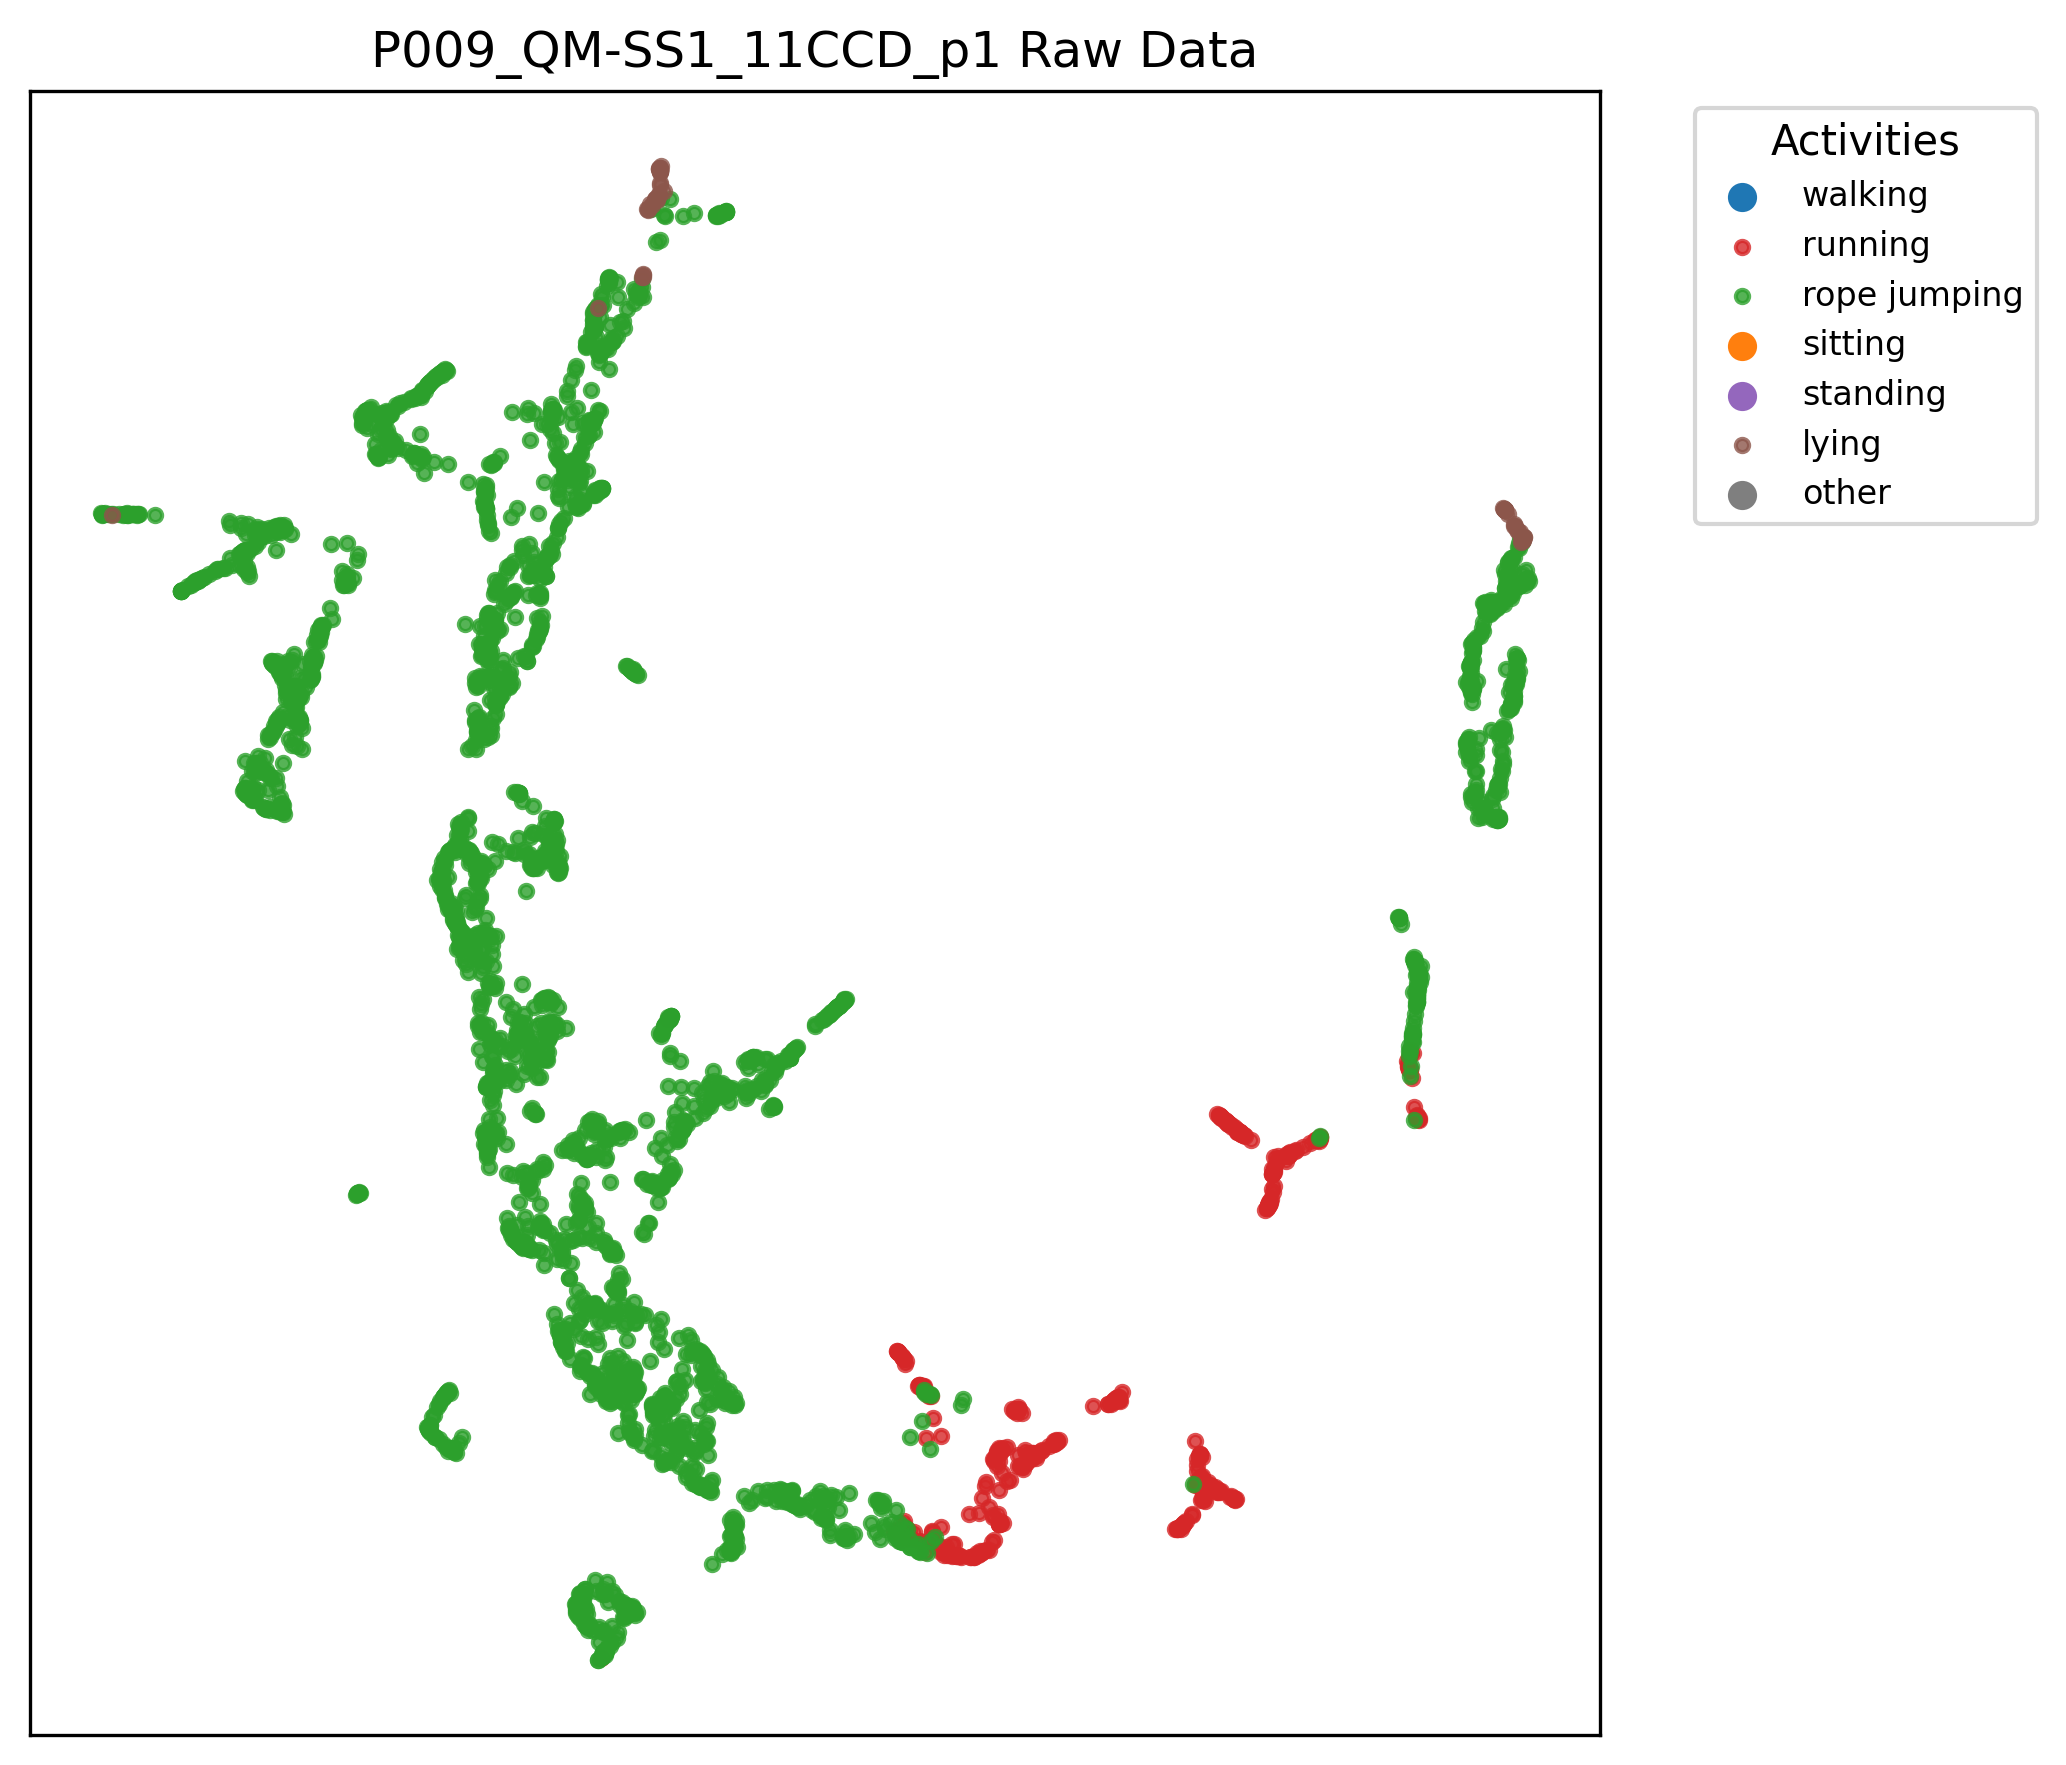
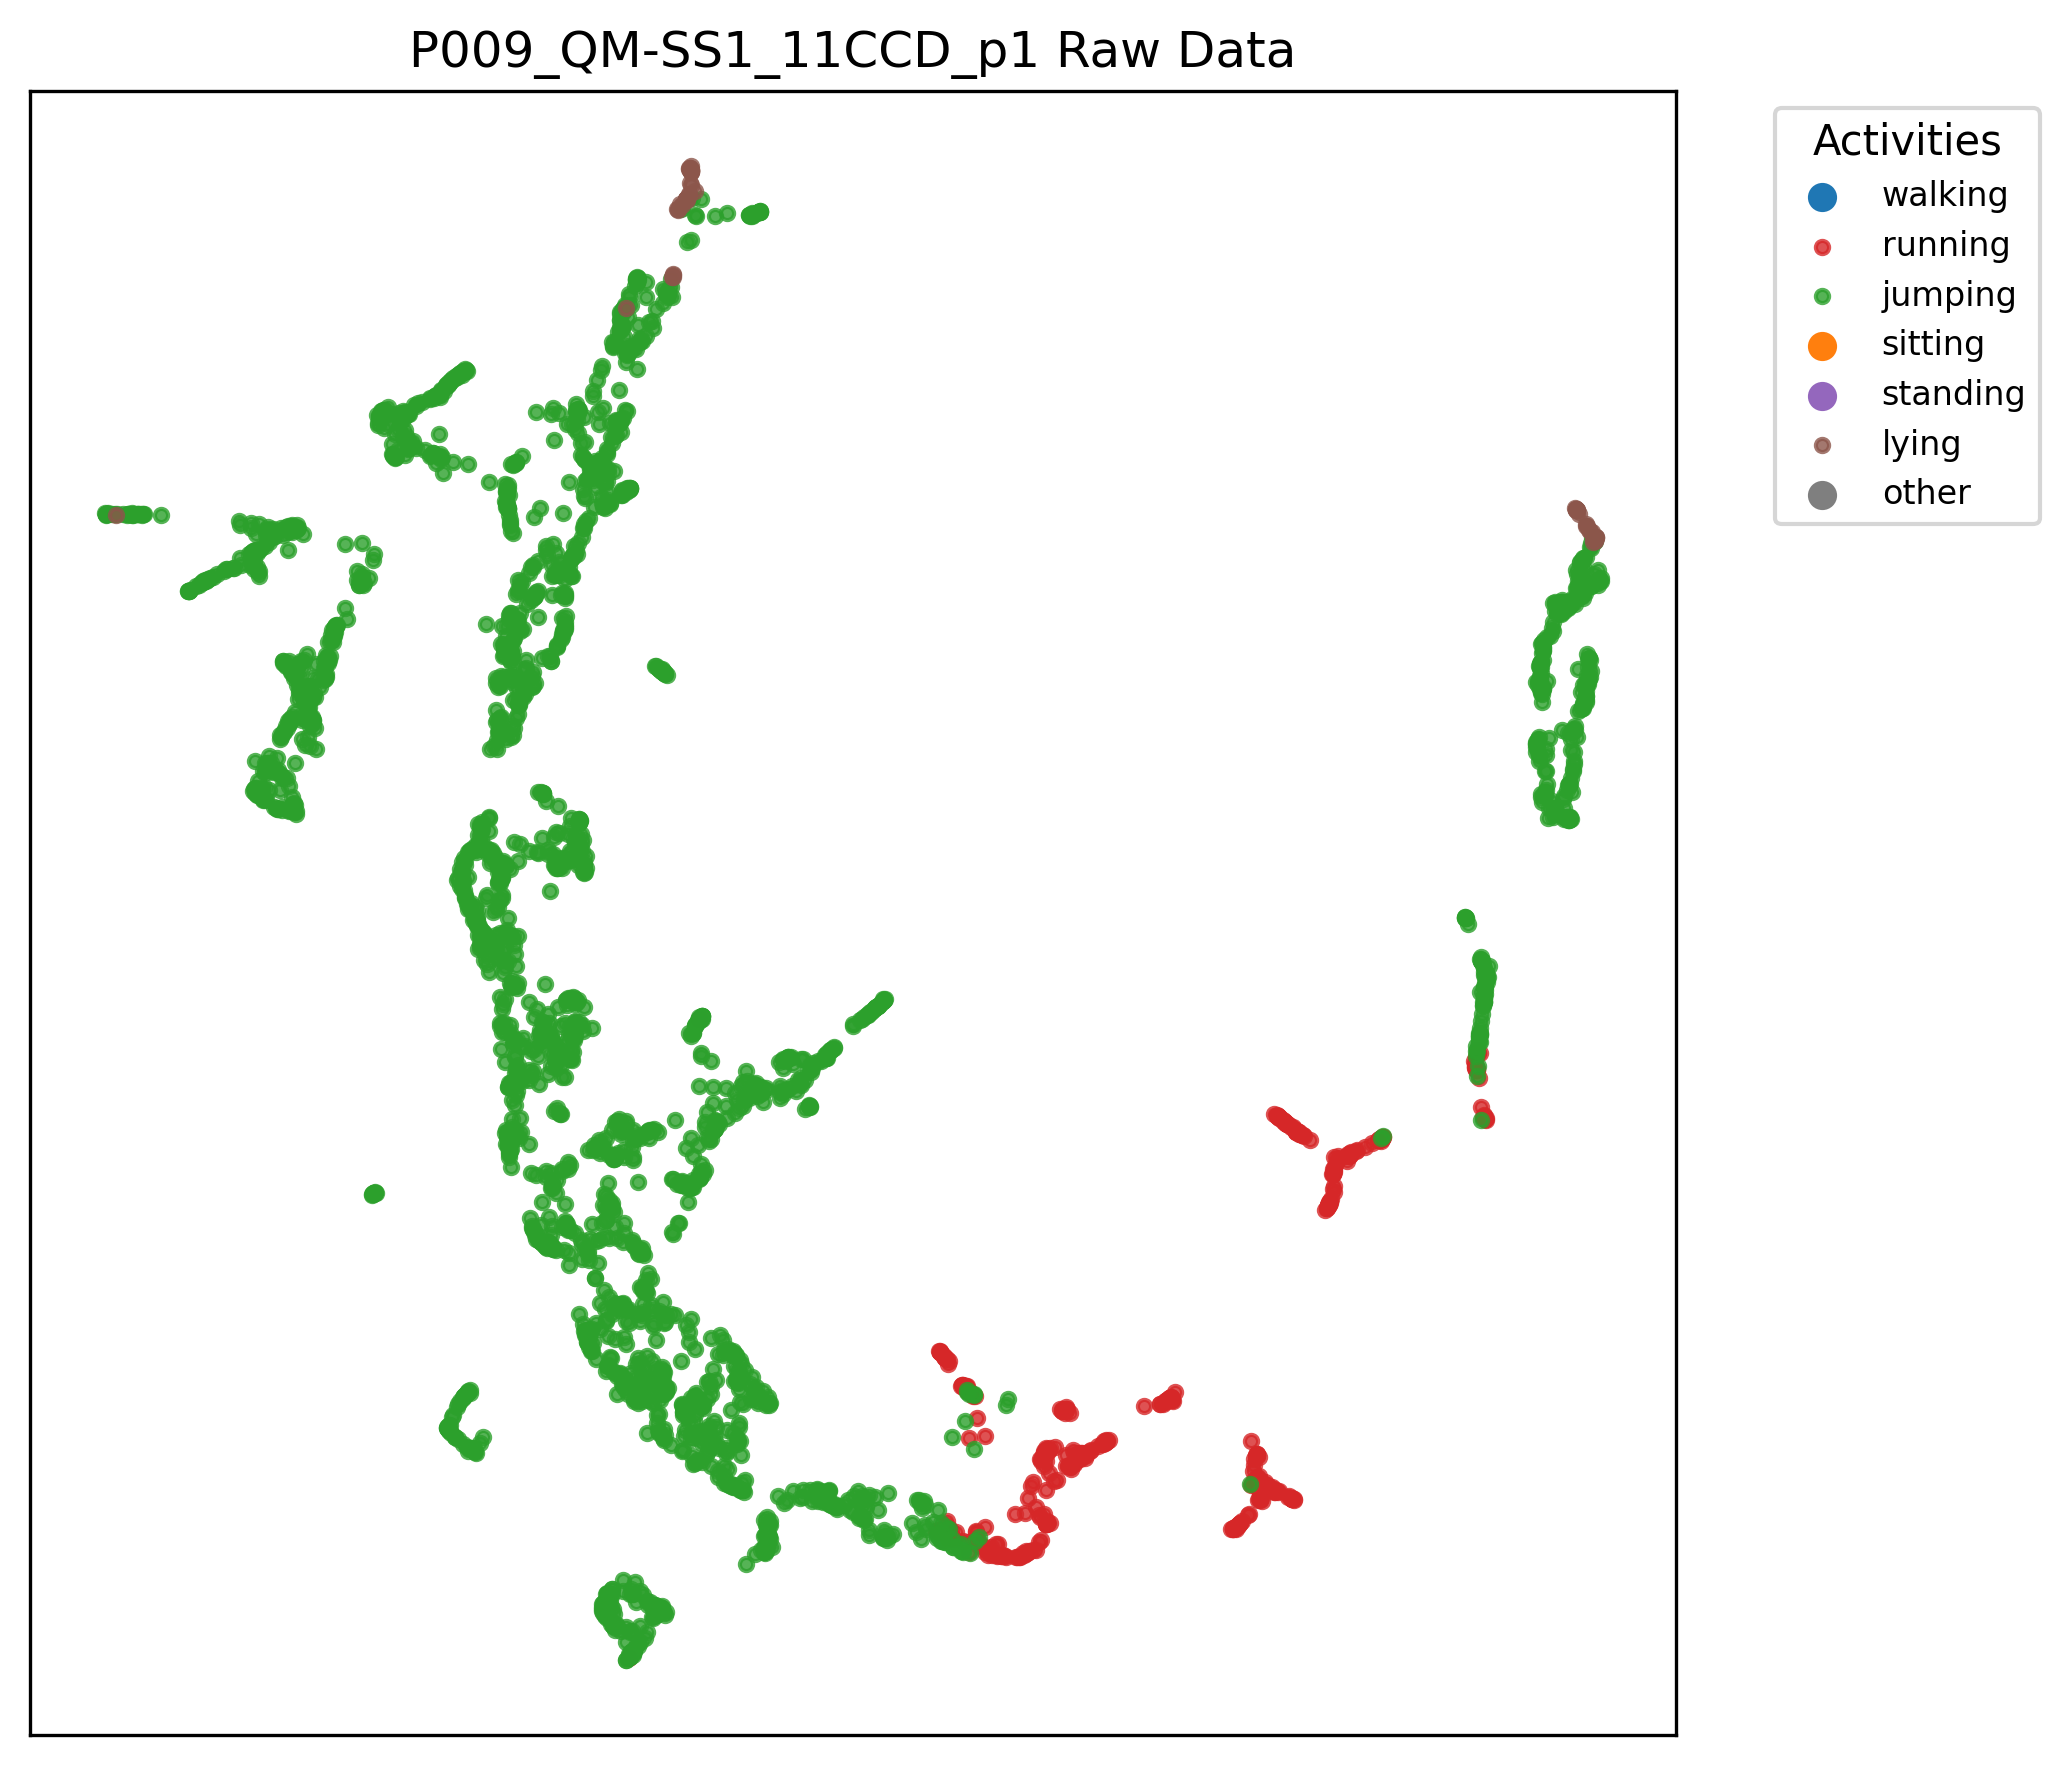
Adding updated images for wisdm confusion matrix, and children UMAPs

diff --git a/children_visualizations.py b/children_visualizations.py
@@ -37,13 +37,13 @@ pamap2_to_children = {
     12: 6,
     13: 6,
     14: 6,
-    18: 2   # rope jumping
+    18: 2  
 }
 
 children_map = {
     0: "walking",
     1: "running",
-    2: "rope jumping",
+    2: "jumping",
     3: "sitting",
     4: "standing",
     5: "lying",
@@ -56,7 +56,7 @@ children_map = {
 activity_colors = {
     0: "#1f77b4",  # walking - blue
     1: "#d62728",  # running - red
-    2: "#2ca02c",  # rope jumping - green
+    2: "#2ca02c",  # jumping - green
     3: "#ff7f0e",  # sitting - orange
     4: "#9467bd",  # standing - purple
     5: "#8c564b",  # lying - brown
@@ -141,8 +141,9 @@ for base in base_names:
     print(f"==============================")
 
     # Load data
-    X = np.load(f"{base}_X.npy")
-    X_pred = np.load(f"{base}_predictions.npy")
+    X = np.load(f"children_embeddings/{base}_X.npy")
+    # X = np.load(f"{base}_X.npy")
+    X_pred = np.load(f"children_embeddings/{base}_predictions.npy")
 
     print(f"X shape: {X.shape}")
     print(f"X_pred shape: {X_pred.shape}")
